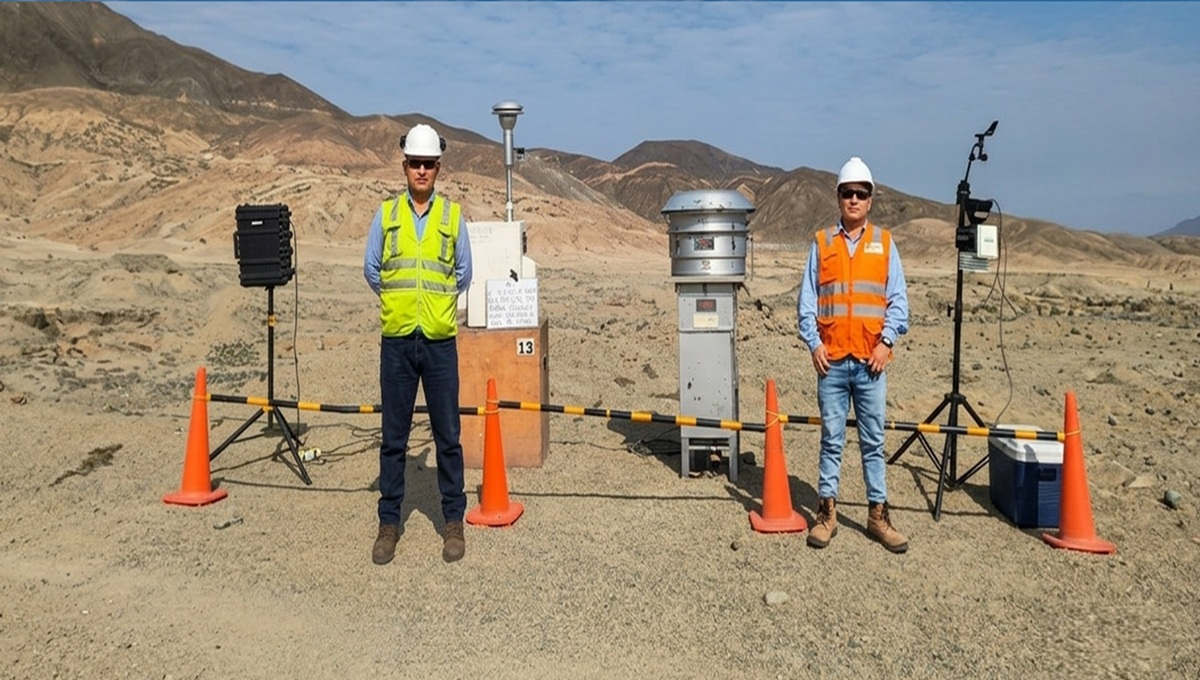
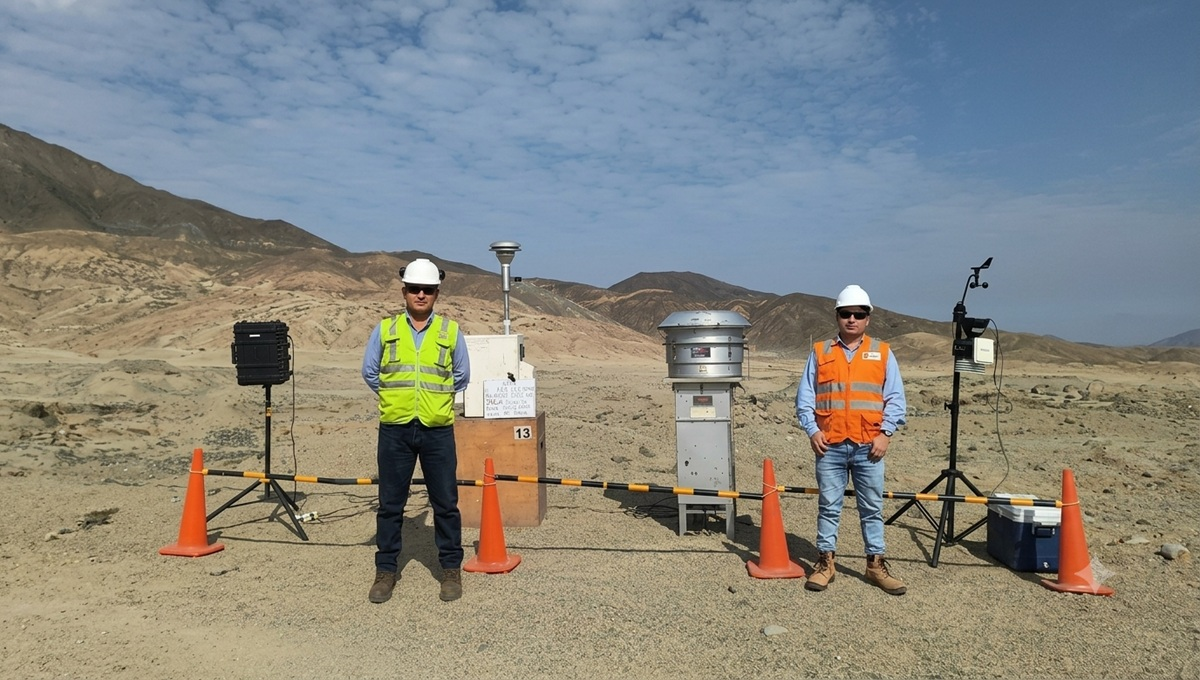
actualización panagreen

diff --git a/galeria.html b/galeria.html
@@ -135,6 +135,186 @@
                         </div>
                     </div>
 
+                    <!-- Imagen 10 -->
+                    <div class="col-12 col-sm-6 col-md-4">
+                        <div class="galeria-item card border-0">
+                            <img src="imagenes/galeria/foto1.jpeg" alt="Estudios" class="img-fluid rounded shadow-sm">
+                            <div class="galeria-overlay d-flex align-items-center justify-content-center">
+                                <span class="text-white fw-bold text-uppercase">Estudios Ambientales</span>
+                            </div>
+                        </div>
+                    </div>
+
+                    <!-- Imagen 11 -->
+                    <div class="col-12 col-sm-6 col-md-4">
+                        <div class="galeria-item card border-0">
+                            <img src="imagenes/galeria/foto2.jpeg" alt="Estudios" class="img-fluid rounded shadow-sm">
+                            <div class="galeria-overlay d-flex align-items-center justify-content-center">
+                                <span class="text-white fw-bold text-uppercase">Estudios Ambientales</span>
+                            </div>
+                        </div>
+                    </div>
+
+                    <!-- Imagen 12 -->
+                    <div class="col-12 col-sm-6 col-md-4">
+                        <div class="galeria-item card border-0">
+                            <img src="imagenes/galeria/foto3.jpeg" alt="Estudios" class="img-fluid rounded shadow-sm">
+                            <div class="galeria-overlay d-flex align-items-center justify-content-center">
+                                <span class="text-white fw-bold text-uppercase">Estudios Ambientales</span>
+                            </div>
+                        </div>
+                    </div>
+
+                    <!-- Imagen 13 -->
+                    <div class="col-12 col-sm-6 col-md-4">
+                        <div class="galeria-item card border-0">
+                            <img src="imagenes/galeria/foto4.jpeg" alt="Estudios" class="img-fluid rounded shadow-sm">
+                            <div class="galeria-overlay d-flex align-items-center justify-content-center">
+                                <span class="text-white fw-bold text-uppercase">Estudios Ambientales</span>
+                            </div>
+                        </div>
+                    </div>
+
+                    <!-- Imagen 14 -->
+                    <div class="col-12 col-sm-6 col-md-4">
+                        <div class="galeria-item card border-0">
+                            <img src="imagenes/galeria/foto5.jpeg" alt="Estudios" class="img-fluid rounded shadow-sm">
+                            <div class="galeria-overlay d-flex align-items-center justify-content-center">
+                                <span class="text-white fw-bold text-uppercase">Estudios Ambientales</span>
+                            </div>
+                        </div>
+                    </div>
+
+                    <!-- Imagen 15 -->
+                    <div class="col-12 col-sm-6 col-md-4">
+                        <div class="galeria-item card border-0">
+                            <img src="imagenes/galeria/foto6.jpeg" alt="Estudios" class="img-fluid rounded shadow-sm">
+                            <div class="galeria-overlay d-flex align-items-center justify-content-center">
+                                <span class="text-white fw-bold text-uppercase">Estudios Ambientales</span>
+                            </div>
+                        </div>
+                    </div>
+
+                    <!-- Imagen 16 -->
+                    <div class="col-12 col-sm-6 col-md-4">
+                        <div class="galeria-item card border-0">
+                            <img src="imagenes/galeria/foto7.jpeg" alt="Estudios" class="img-fluid rounded shadow-sm">
+                            <div class="galeria-overlay d-flex align-items-center justify-content-center">
+                                <span class="text-white fw-bold text-uppercase">Estudios Ambientales</span>
+                            </div>
+                        </div>
+                    </div>
+
+                    <!-- Imagen 17 -->
+                    <div class="col-12 col-sm-6 col-md-4">
+                        <div class="galeria-item card border-0">
+                            <img src="imagenes/galeria/foto8.jpeg" alt="Estudios" class="img-fluid rounded shadow-sm">
+                            <div class="galeria-overlay d-flex align-items-center justify-content-center">
+                                <span class="text-white fw-bold text-uppercase">Estudios Ambientales</span>
+                            </div>
+                        </div>
+                    </div>
+
+                    <!-- Imagen 18 -->
+                    <div class="col-12 col-sm-6 col-md-4">
+                        <div class="galeria-item card border-0">
+                            <img src="imagenes/galeria/foto9.jpeg" alt="Estudios" class="img-fluid rounded shadow-sm">
+                            <div class="galeria-overlay d-flex align-items-center justify-content-center">
+                                <span class="text-white fw-bold text-uppercase">Estudios Ambientales</span>
+                            </div>
+                        </div>
+                    </div>
+
+                    <!-- Imagen 19 -->
+                    <div class="col-12 col-sm-6 col-md-4">
+                        <div class="galeria-item card border-0">
+                            <img src="imagenes/galeria/foto10.jpeg" alt="Estudios" class="img-fluid rounded shadow-sm">
+                            <div class="galeria-overlay d-flex align-items-center justify-content-center">
+                                <span class="text-white fw-bold text-uppercase">Estudios Ambientales</span>
+                            </div>
+                        </div>
+                    </div>
+
+                    <!-- Imagen 20 -->
+                    <div class="col-12 col-sm-6 col-md-4">
+                        <div class="galeria-item card border-0">
+                            <img src="imagenes/galeria/foto11.jpeg" alt="Estudios" class="img-fluid rounded shadow-sm">
+                            <div class="galeria-overlay d-flex align-items-center justify-content-center">
+                                <span class="text-white fw-bold text-uppercase">Estudios Ambientales</span>
+                            </div>
+                        </div>
+                    </div>
+
+                    <!-- Imagen 21 -->
+                    <div class="col-12 col-sm-6 col-md-4">
+                        <div class="galeria-item card border-0">
+                            <img src="imagenes/galeria/foto12.jpeg" alt="Estudios" class="img-fluid rounded shadow-sm">
+                            <div class="galeria-overlay d-flex align-items-center justify-content-center">
+                                <span class="text-white fw-bold text-uppercase">Estudios Ambientales</span>
+                            </div>
+                        </div>
+                    </div>
+
+                    <!-- Imagen 22 -->
+                    <div class="col-12 col-sm-6 col-md-4">
+                        <div class="galeria-item card border-0">
+                            <img src="imagenes/galeria/foto13.jpeg" alt="Estudios" class="img-fluid rounded shadow-sm">
+                            <div class="galeria-overlay d-flex align-items-center justify-content-center">
+                                <span class="text-white fw-bold text-uppercase">Estudios Ambientales</span>
+                            </div>
+                        </div>
+                    </div>
+
+                    <!-- Imagen 23 -->
+                    <div class="col-12 col-sm-6 col-md-4">
+                        <div class="galeria-item card border-0">
+                            <img src="imagenes/galeria/foto14.jpeg" alt="Estudios" class="img-fluid rounded shadow-sm">
+                            <div class="galeria-overlay d-flex align-items-center justify-content-center">
+                                <span class="text-white fw-bold text-uppercase">Estudios Ambientales</span>
+                            </div>
+                        </div>
+                    </div>
+
+                    <!-- Imagen 24 -->
+                    <div class="col-12 col-sm-6 col-md-4">
+                        <div class="galeria-item card border-0">
+                            <img src="imagenes/galeria/foto15.jpeg" alt="Estudios" class="img-fluid rounded shadow-sm">
+                            <div class="galeria-overlay d-flex align-items-center justify-content-center">
+                                <span class="text-white fw-bold text-uppercase">Estudios Ambientales</span>
+                            </div>
+                        </div>
+                    </div>
+
+                    <!-- Imagen 25 -->
+                    <div class="col-12 col-sm-6 col-md-4">
+                        <div class="galeria-item card border-0">
+                            <img src="imagenes/galeria/foto16.jpeg" alt="Estudios" class="img-fluid rounded shadow-sm">
+                            <div class="galeria-overlay d-flex align-items-center justify-content-center">
+                                <span class="text-white fw-bold text-uppercase">Estudios Ambientales</span>
+                            </div>
+                        </div>
+                    </div>
+
+                    <!-- Imagen 26 -->
+                    <div class="col-12 col-sm-6 col-md-4">
+                        <div class="galeria-item card border-0">
+                            <img src="imagenes/galeria/foto17.jpeg" alt="Estudios" class="img-fluid rounded shadow-sm">
+                            <div class="galeria-overlay d-flex align-items-center justify-content-center">
+                                <span class="text-white fw-bold text-uppercase">Estudios Ambientales</span>
+                            </div>
+                        </div>
+                    </div>
+
+                    <!-- Imagen 27 -->
+                    <div class="col-12 col-sm-6 col-md-4">
+                        <div class="galeria-item card border-0">
+                            <img src="imagenes/galeria/foto18.jpeg" alt="Estudios" class="img-fluid rounded shadow-sm">
+                            <div class="galeria-overlay d-flex align-items-center justify-content-center">
+                                <span class="text-white fw-bold text-uppercase">Estudios Ambientales</span>
+                            </div>
+                        </div>
+                    </div>
+
                 </div>
             </div>
         </section>

diff --git a/componentes/footer.html b/componentes/footer.html
@@ -24,10 +24,8 @@
                 <div class="contacto-footer">
                     <p><i class="fas fa-globe"></i> <strong>Página Web</strong><br><span
                             class="ms-4">www.panagreen.com.pe</span></p>
-                    <p><i class="fas fa-home"></i> <strong>Dirección</strong><br>
-                    <p class="ms-4">Santa Rosa del
-                        Naranjal Mz
-                        L Lote 15, Los Olivos, Lima - Perú</p>
+                    <p><i class="fas fa-home"></i> <strong>Dirección Oficina</strong><br>
+                    <p class="ms-4">Santa Rosa del Naranjal Mz L Lote 15, Los Olivos, Lima - Perú</p>
                     </p>
                     <p><i class="fas fa-phone"></i> 920 252 219 / 975 695 086 </p>
                     <p><i class="fas fa-envelope"></i> informes@panagreen.com.pe</p>
@@ -48,7 +46,7 @@
         </div>
         <hr class="border-light opacity-25 my-4">
         <div class="text-center">
-            <p class="small mb-0 opacity-75">&copy; 2026 Panagreen S.A.C. Todos los derechos reservados.</p>
+            <p class="small mb-0 opacity-75">&copy; 2026 Panagreen S.R.L. Todos los derechos reservados.</p>
         </div>
 
         <a href="https://wa.me/920252219?text=Hola,%20¿en%20qué%20te%20puedo%20ayudar?" class="whatsapp-float"
